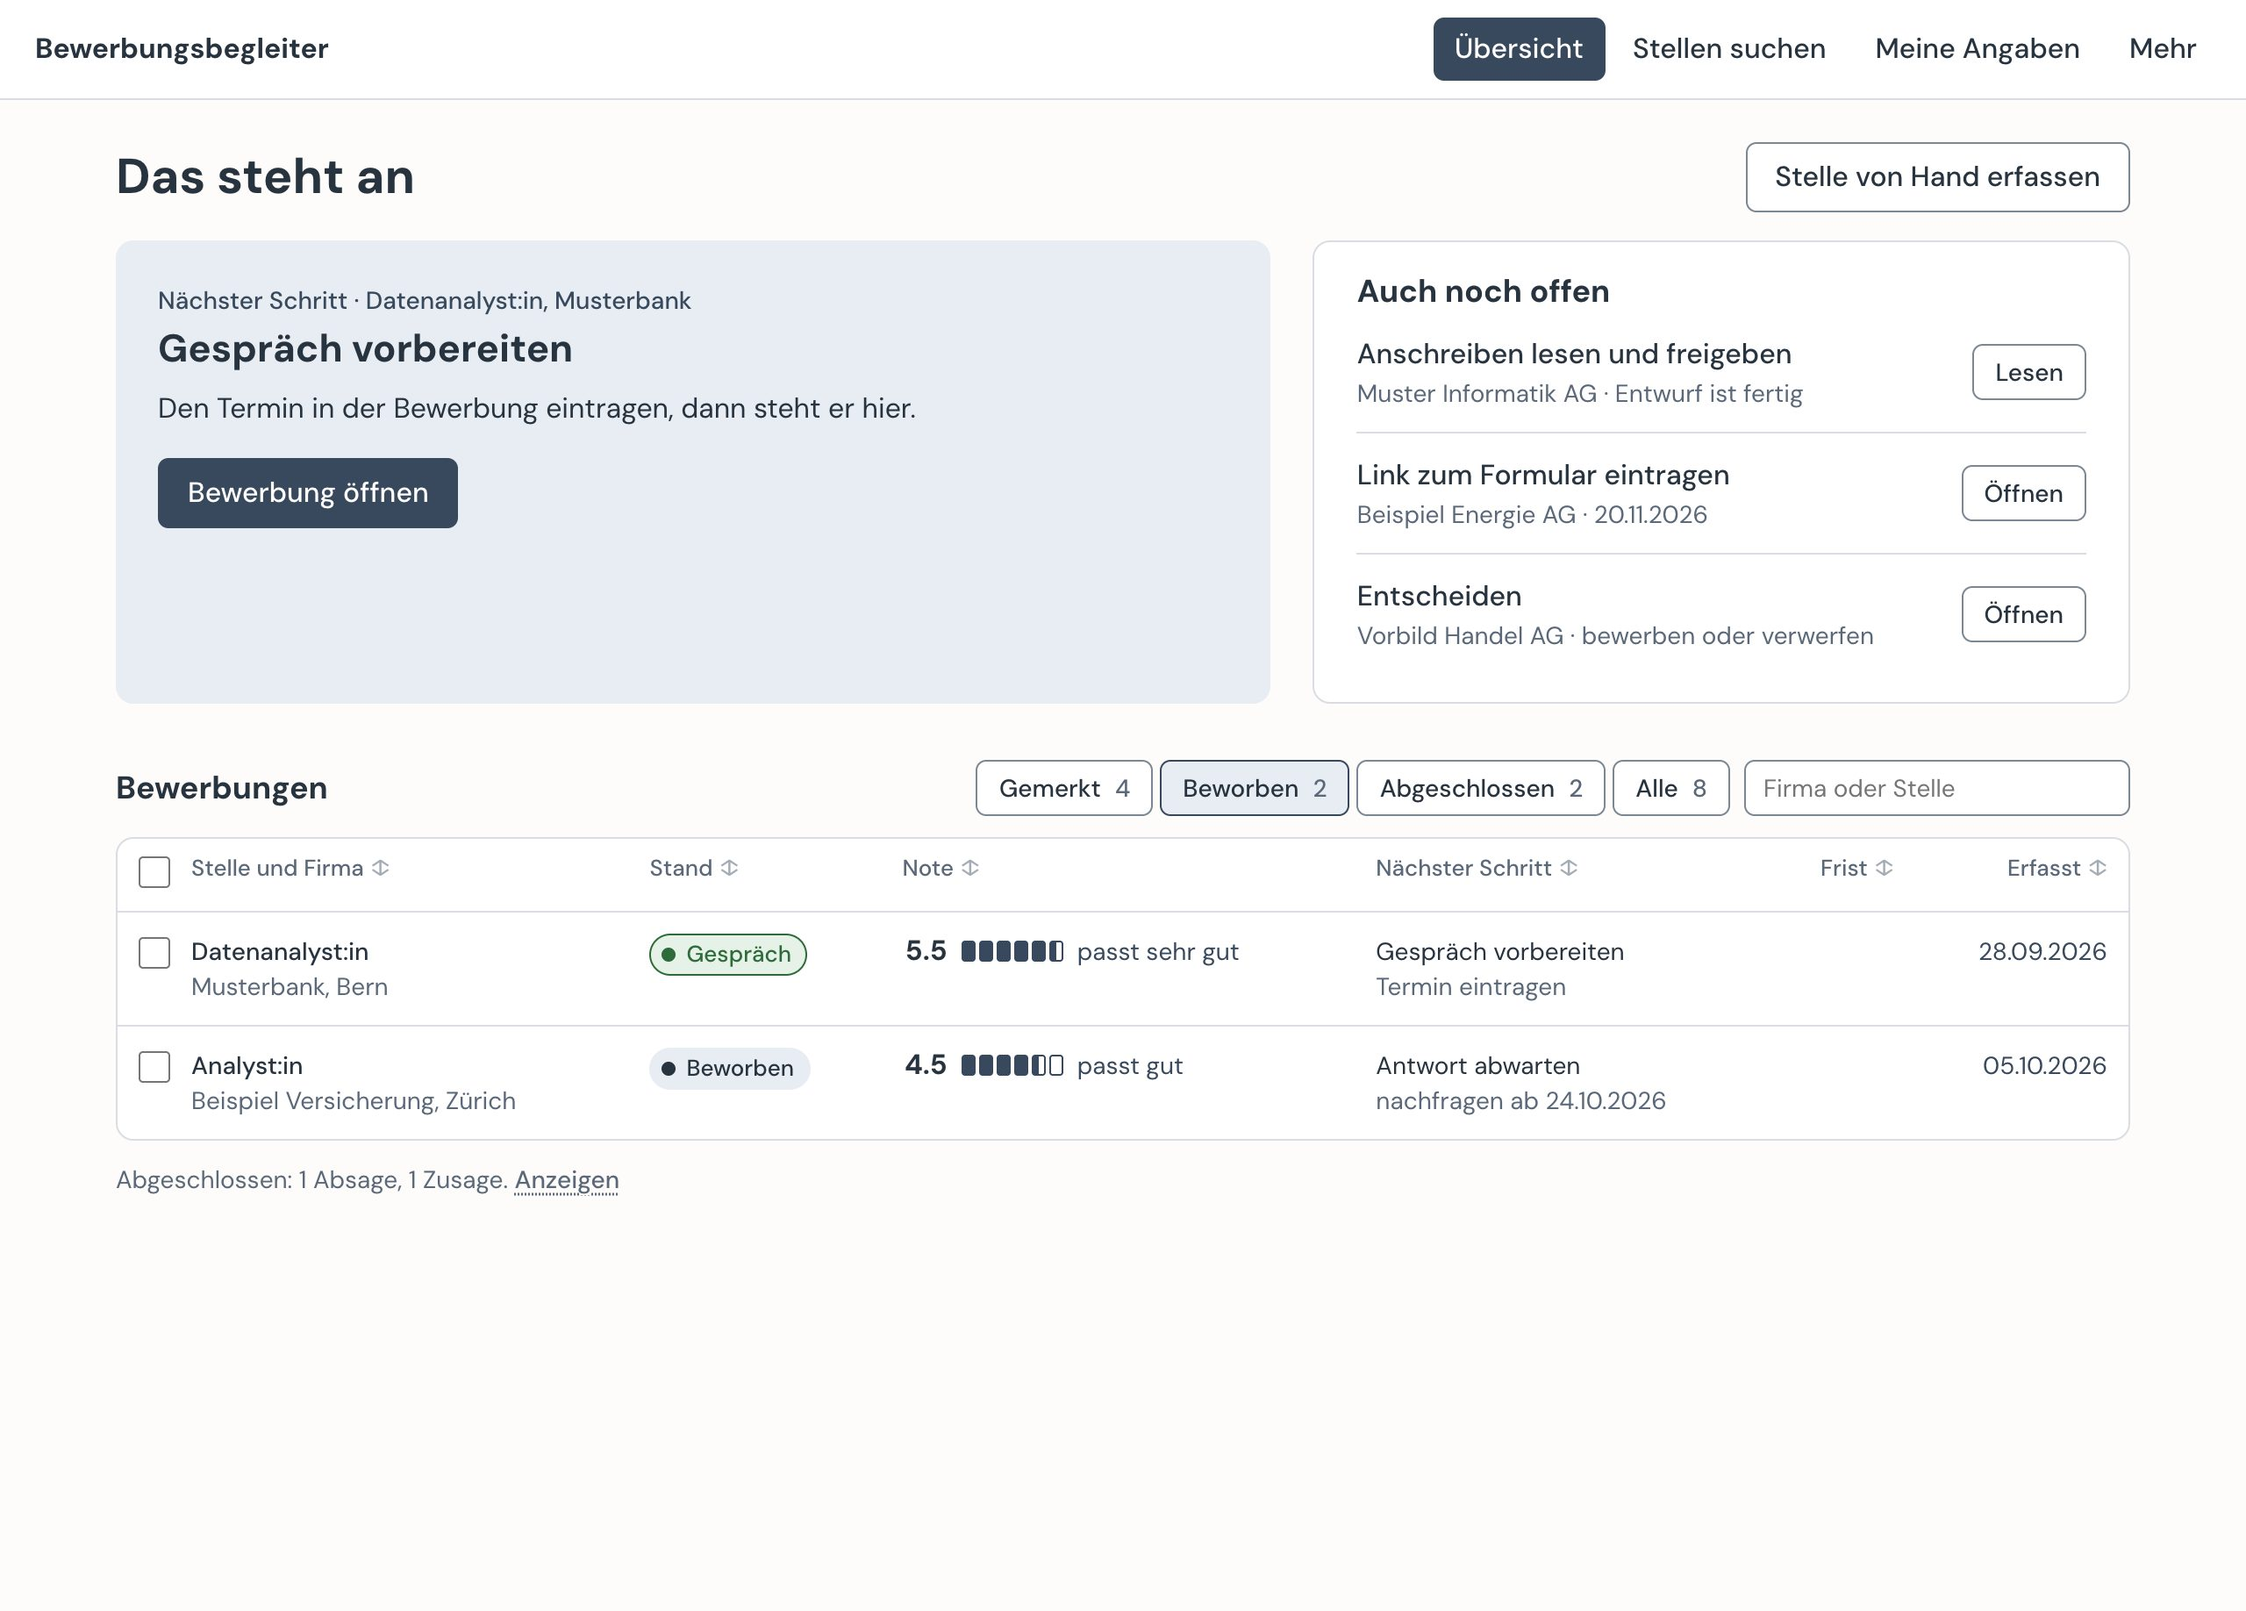
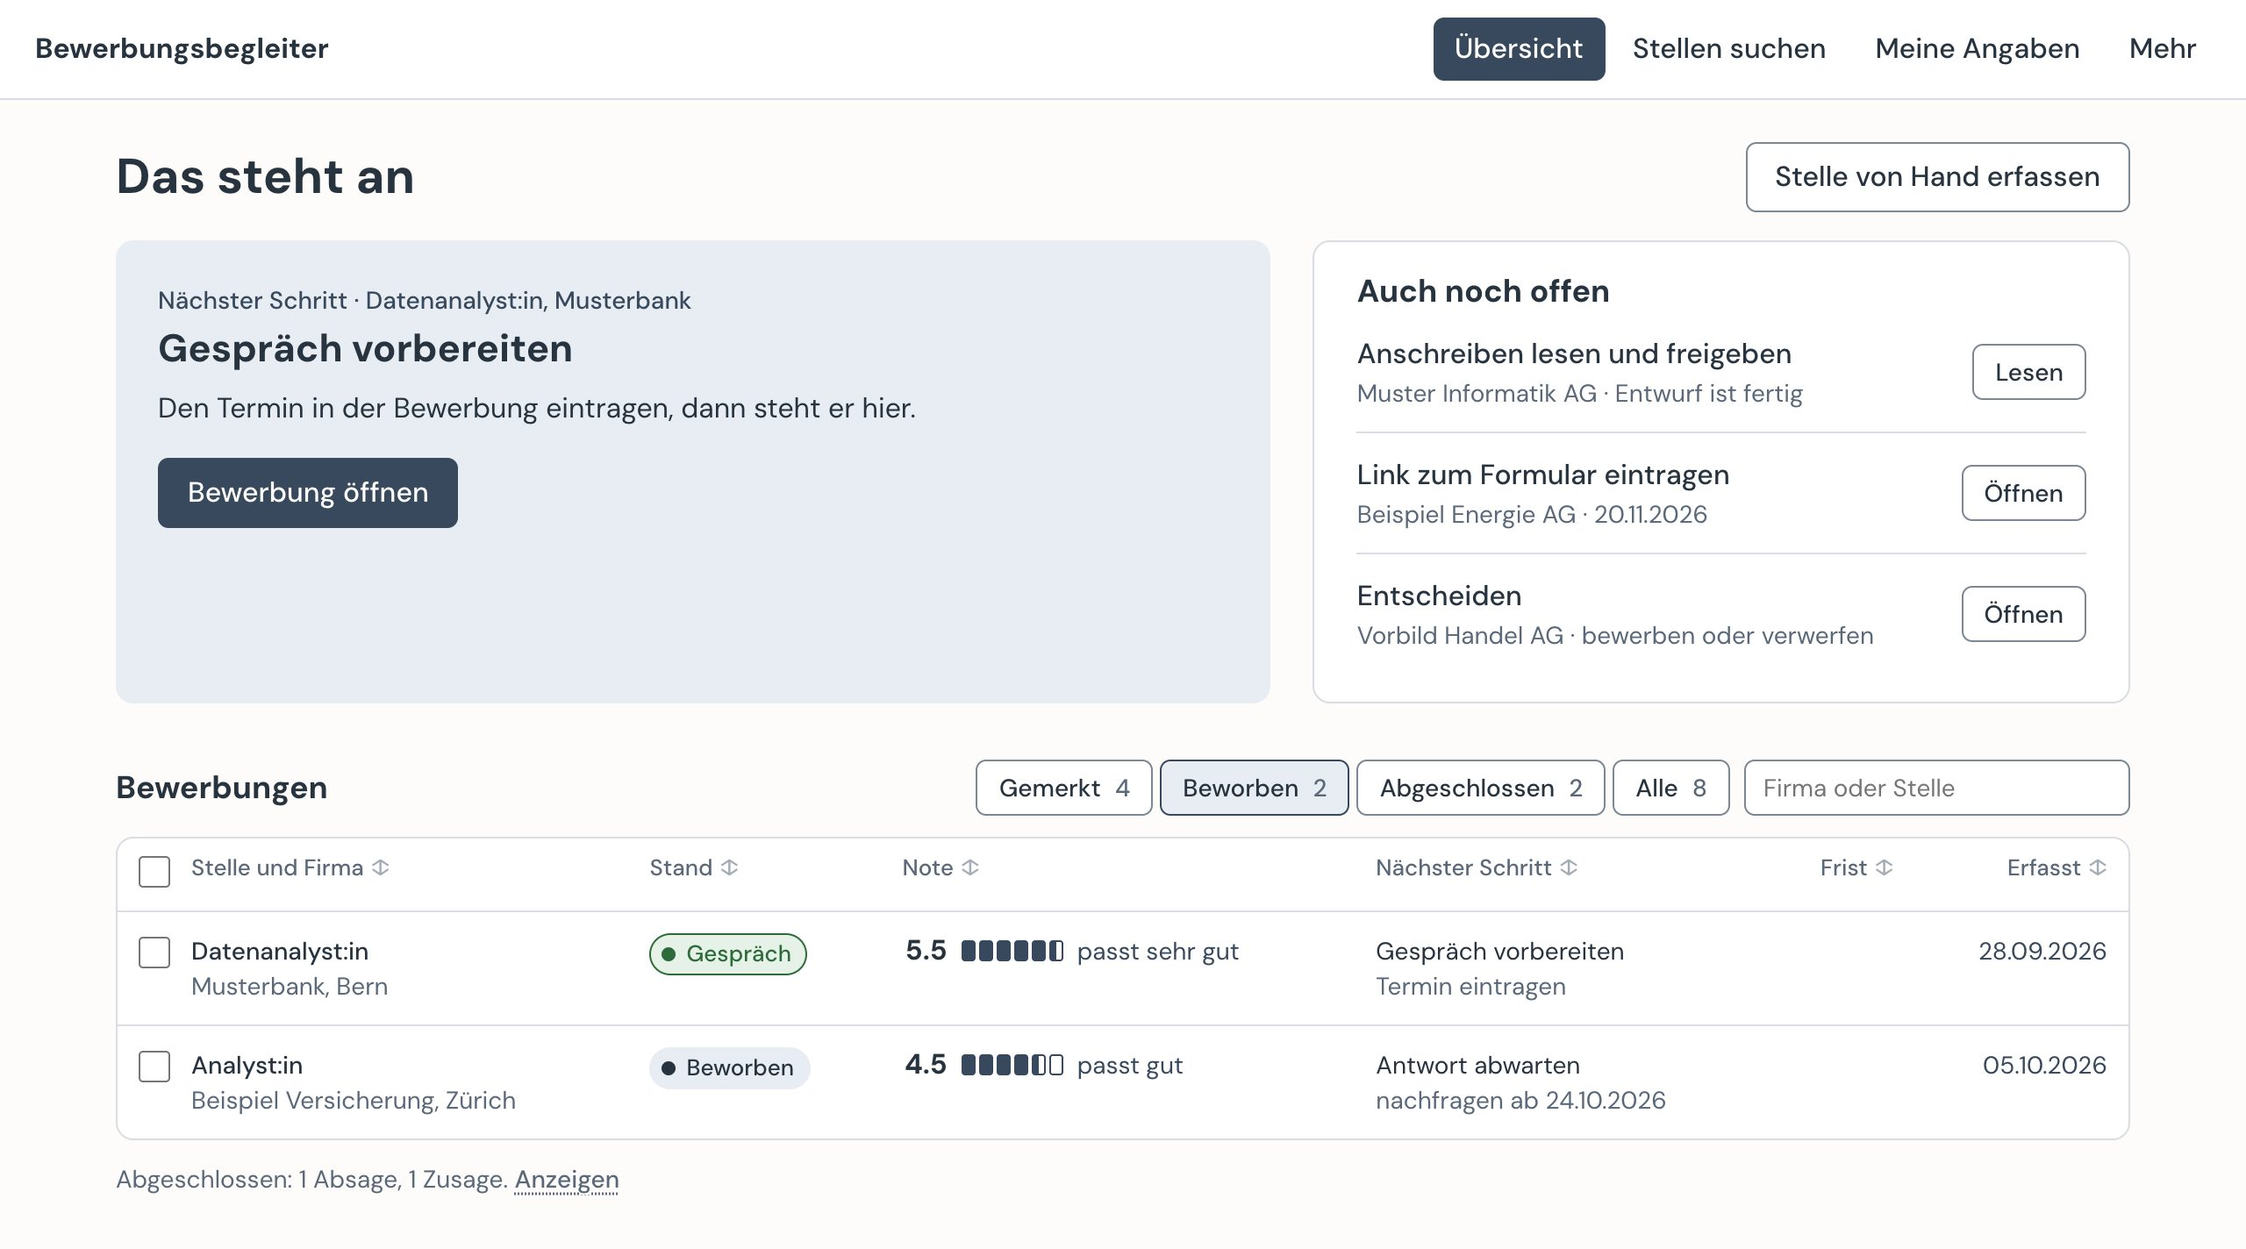
docs(docs): crop the empty bottom of the uebersicht picture [#246]
Cropped losslessly with jpegtran, so the picture keeps its sharpness and gains no metadata.

Pullboard-Item: #246

diff --git a/desktop/tests/test_guide_pictures.py b/desktop/tests/test_guide_pictures.py
@@ -7,6 +7,9 @@ import pathlib
 import re
 import struct
 
+import pytest
+from PIL import Image
+
 ROOT = pathlib.Path(__file__).resolve().parents[2]
 PICTURES = ROOT / "docs" / "bilder"
 PAGES = {ROOT / "docs" / "installation.md": "bilder/", ROOT / "README.md": "docs/bilder/",
@@ -15,6 +18,10 @@ MIN_WIDTH = 2200
 MAX_WIDTH = 2560
 # Start-of-frame markers carry the size; DHT (C4), JPG (C8) and DAC (CC) share the range but do not.
 FRAME_MARKERS = set(range(0xC0, 0xD0)) - {0xC4, 0xC8, 0xCC}
+# The first picture on the website's start page (#246): no empty band below the content
+CROPPED = ("uebersicht.jpg",)
+MAX_EMPTY_BOTTOM = 0.05  # of the height
+CONTENT_CONTRAST = 24  # grey levels from the page background, above JPEG noise
 
 
 def referenced() -> set[str]:
@@ -73,6 +80,31 @@ def test_pictures_carry_no_metadata():
                 break
             pos += 2 + struct.unpack(">H", data[pos + 2:pos + 4])[0]
     assert not carrying, f"mit Metadaten: {carrying}"
+
+
+def lowest_content_row(picture: Image.Image) -> int:
+    """The lowest row that differs from the page background, taken from the bottom row."""
+    grey = picture.convert("L")
+    width, height = grey.size
+    bottom = [grey.getpixel((x, height - 1)) for x in range(width)]
+    background = max(set(bottom), key=bottom.count)
+    for y in range(height - 1, -1, -1):
+        if any(abs(grey.getpixel((x, y)) - background) > CONTENT_CONTRAST for x in range(0, width, 2)):
+            return y
+    return 0
+
+
+@pytest.mark.parametrize("name", CROPPED)
+def test_a_cropped_picture_ends_where_its_content_ends(name):
+    with Image.open(PICTURES / name) as picture:
+        empty = (picture.height - 1 - lowest_content_row(picture)) / picture.height
+    assert empty <= MAX_EMPTY_BOTTOM, f"{name}: {empty:.0%} empty at the bottom"
+
+
+def test_finding_the_content_sees_a_line_above_an_empty_band():
+    picture = Image.new("L", (40, 100), 250)
+    picture.paste(40, (5, 30, 35, 32))
+    assert lowest_content_row(picture) == 31
 
 
 def test_reading_the_size_finds_the_frame():
